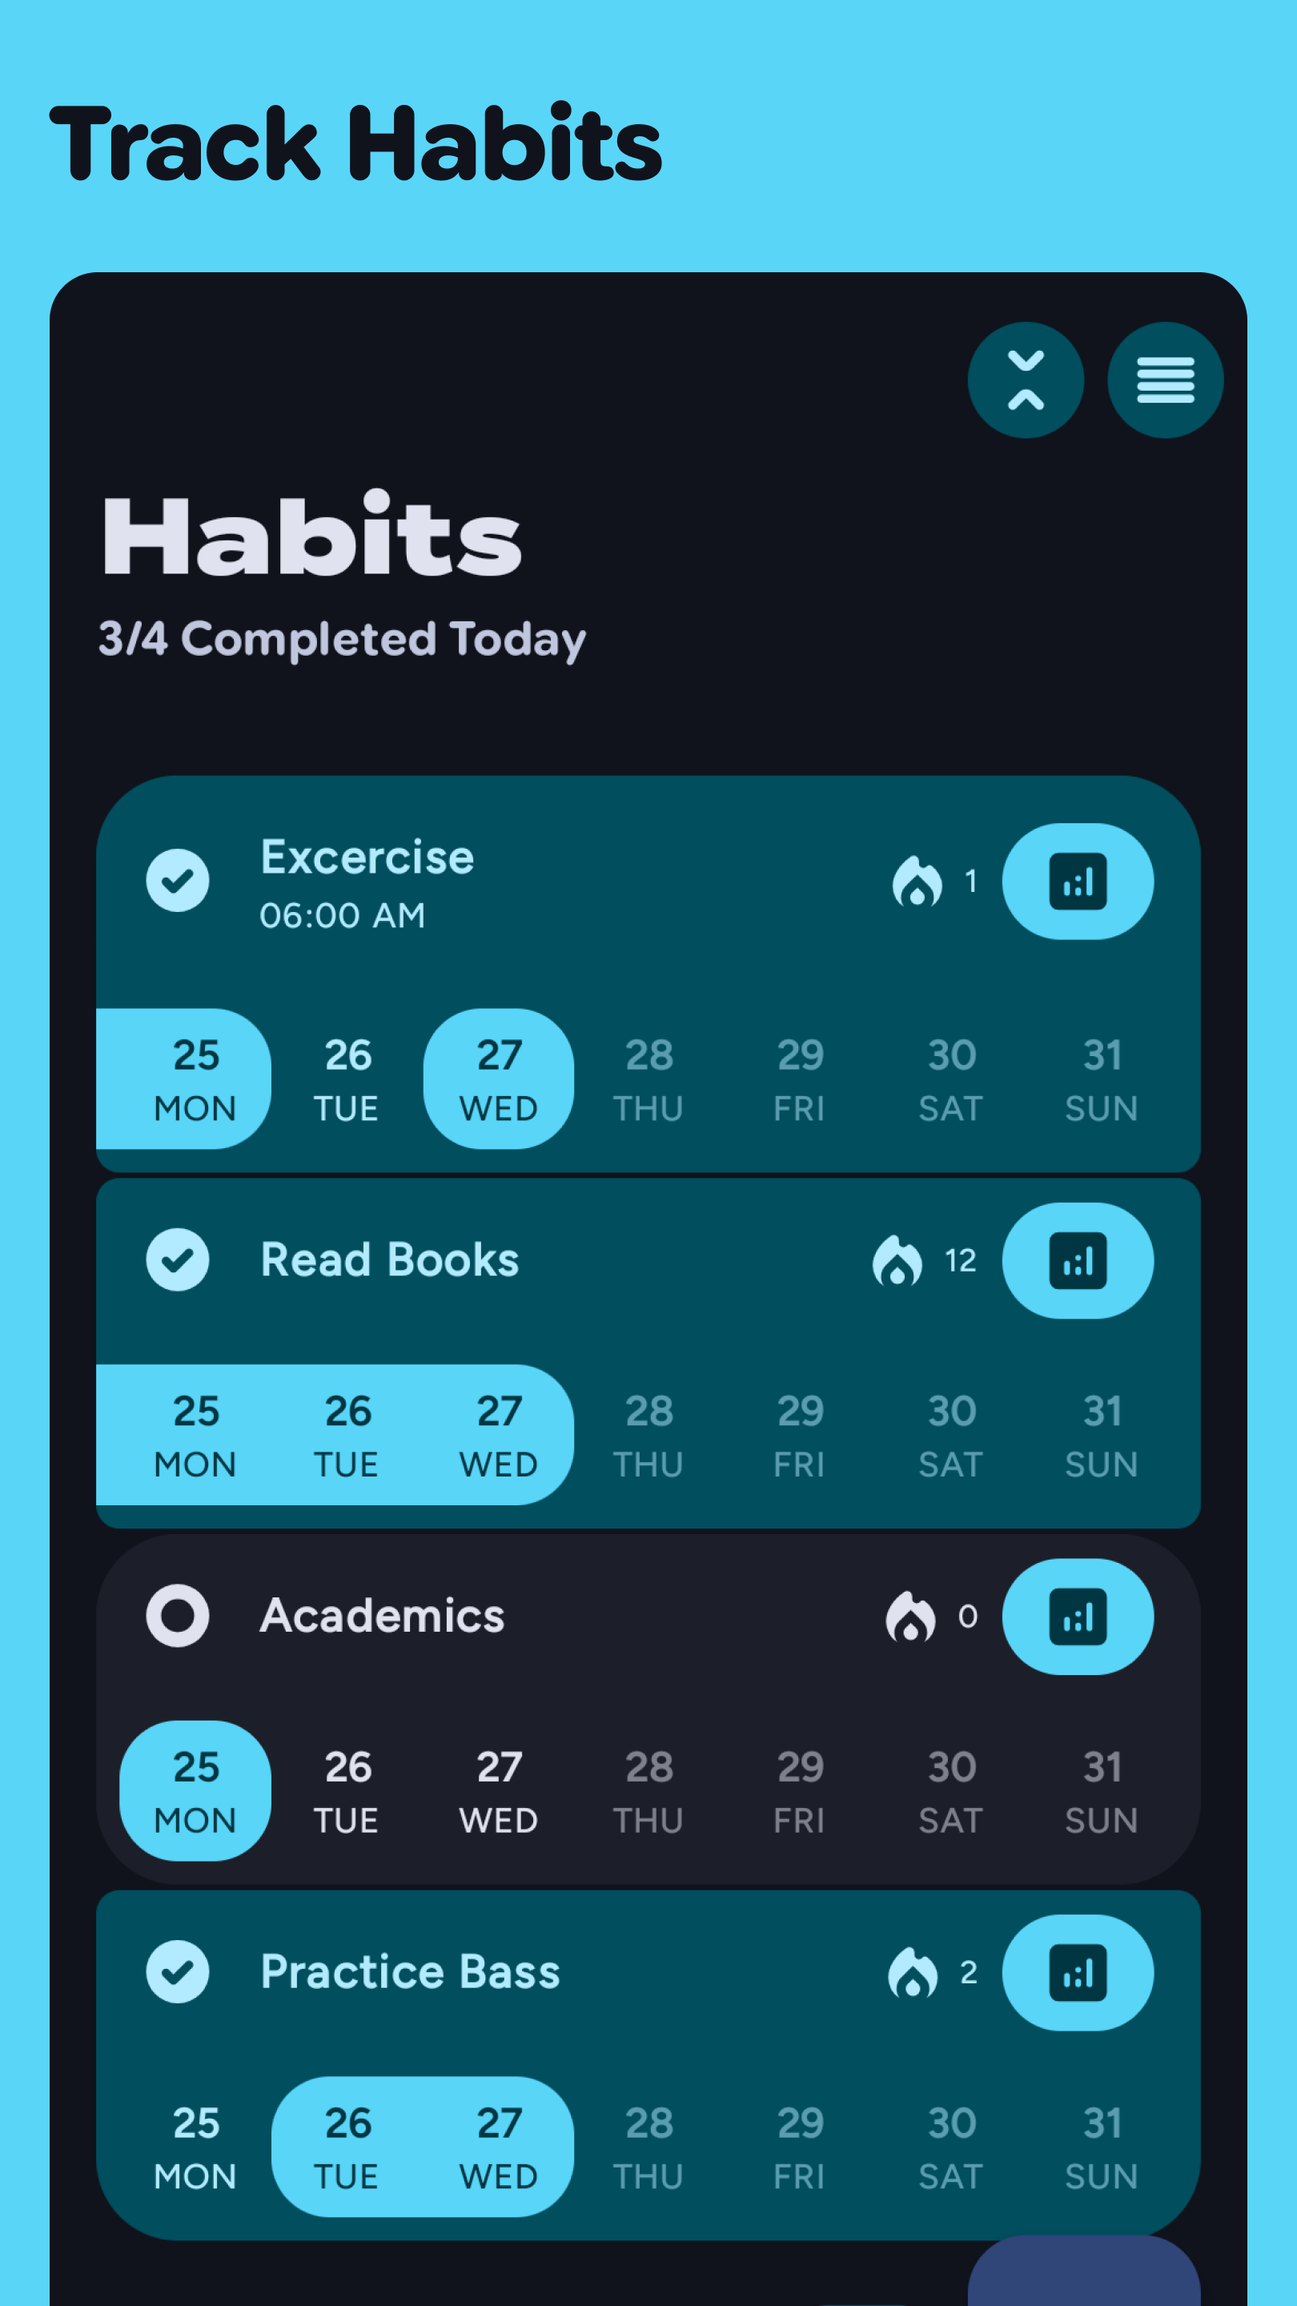
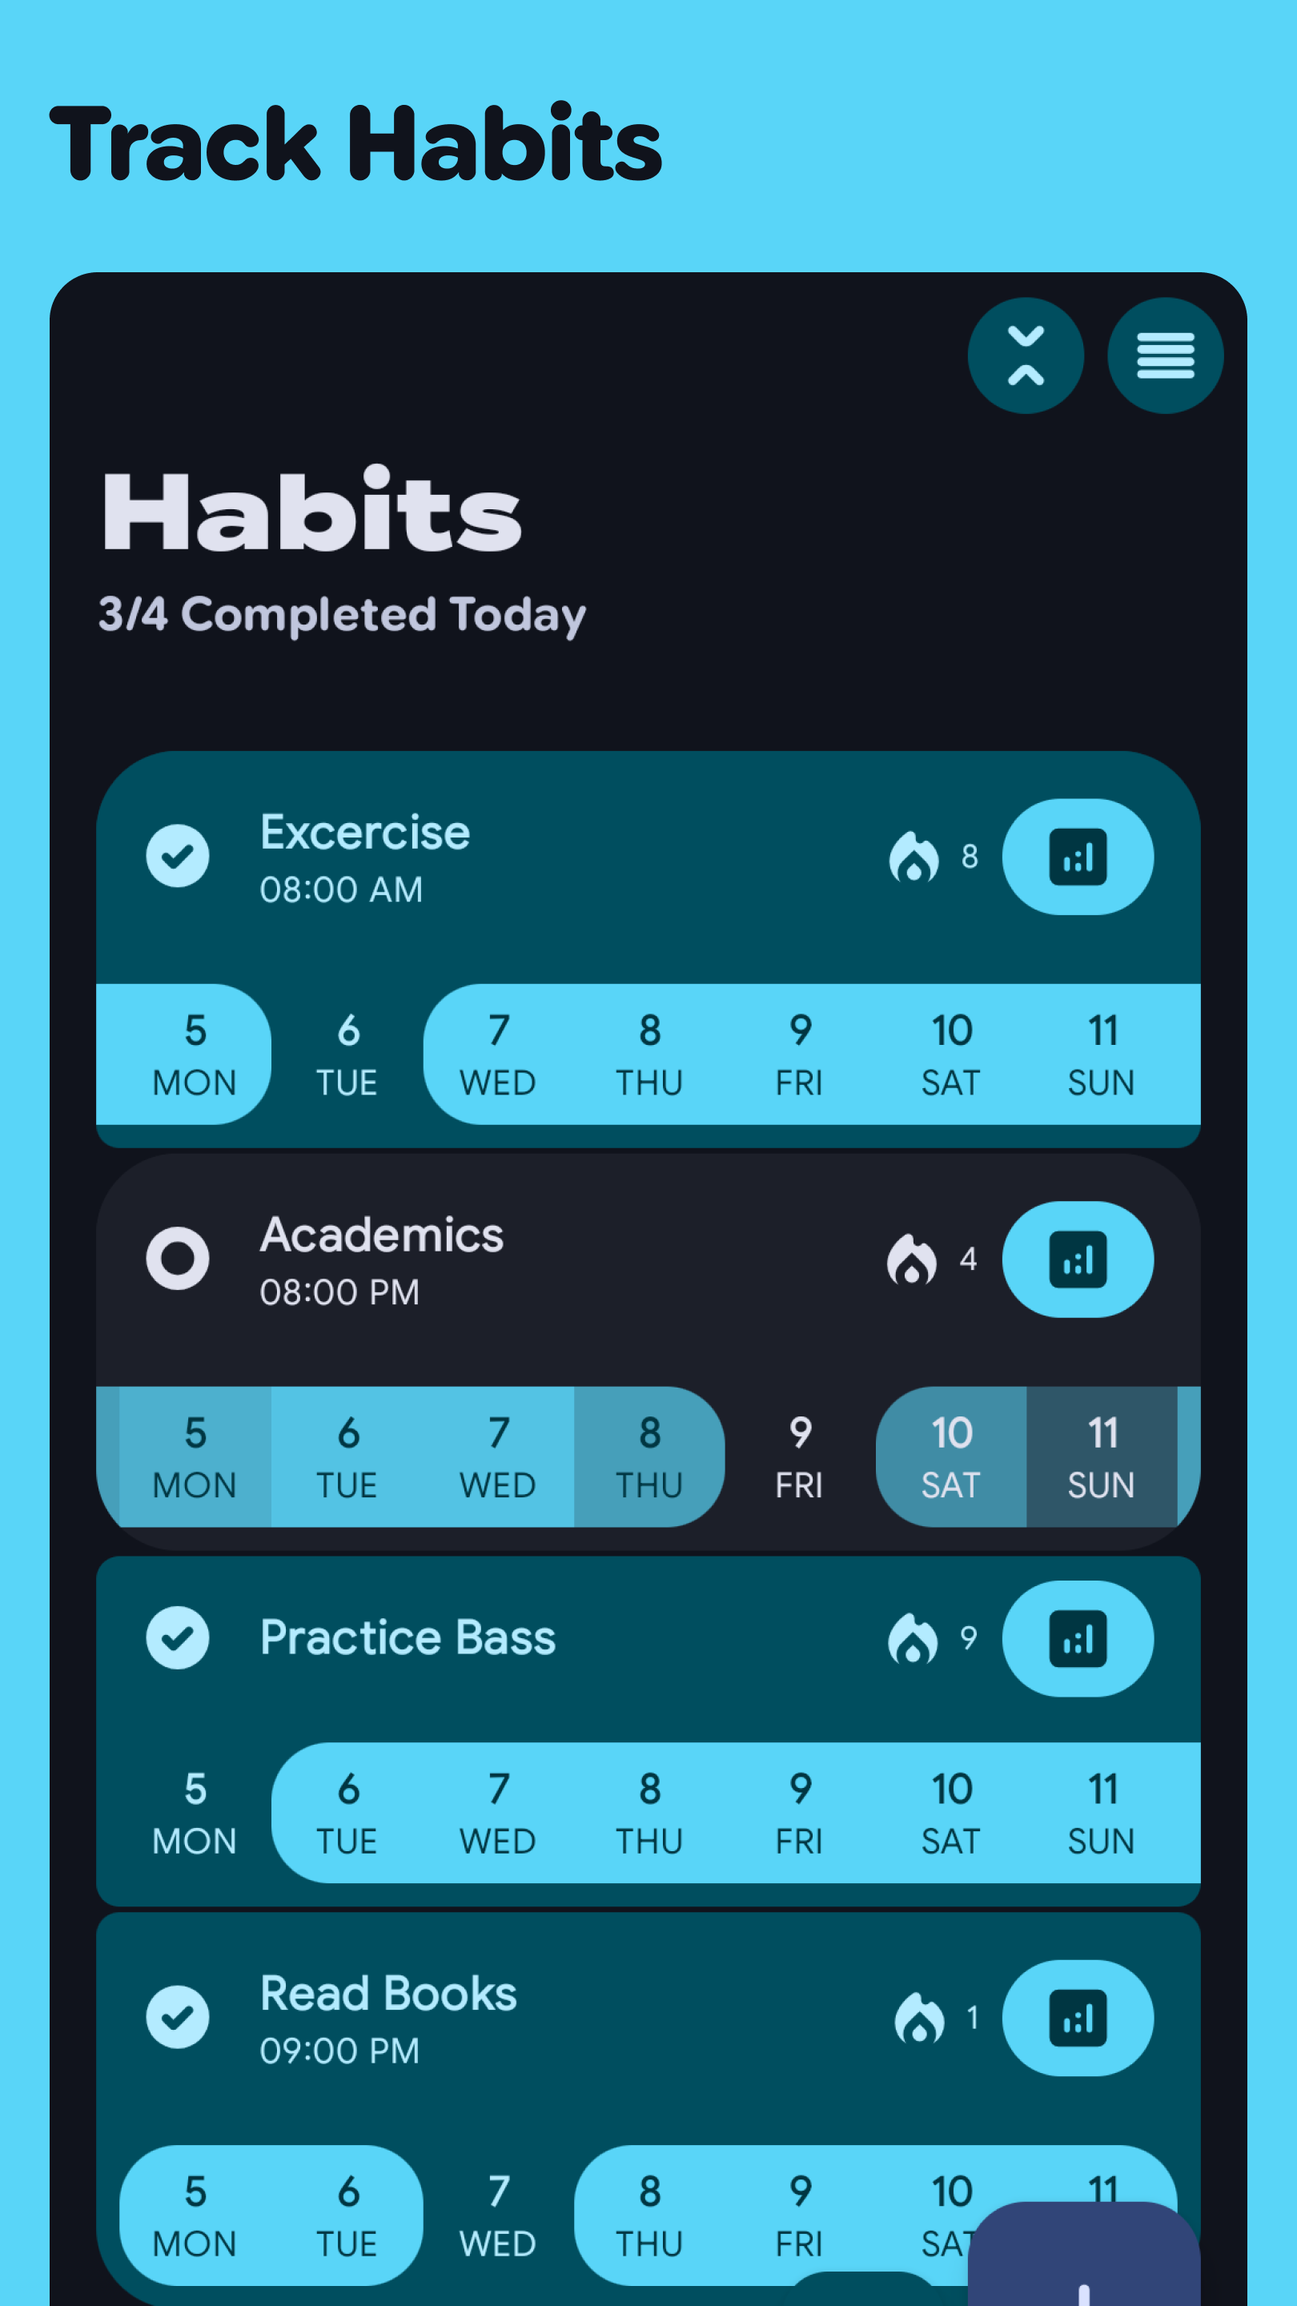
:memo: chore: updated screenshots, bumped version added changelog
* Fixed tablet ui

diff --git a/shared/ui/src/commonMain/kotlin/com/shub39/grit/shared/ui/habit/ui/sections/CalendarHeatMap.kt b/shared/ui/src/commonMain/kotlin/com/shub39/grit/shared/ui/habit/ui/sections/CalendarHeatMap.kt
@@ -32,6 +32,7 @@ import androidx.compose.foundation.layout.fillMaxSize
 import androidx.compose.foundation.layout.fillMaxWidth
 import androidx.compose.foundation.layout.height
 import androidx.compose.foundation.layout.padding
+import androidx.compose.foundation.layout.widthIn
 import androidx.compose.foundation.rememberScrollState
 import androidx.compose.foundation.shape.RoundedCornerShape
 import androidx.compose.foundation.verticalScroll
@@ -72,6 +73,7 @@ import com.shub39.grit.shared.ui.LocalWindowSizeClass
 import com.shub39.grit.shared.ui.WindowSize.Companion.isExpanded
 import com.shub39.grit.shared.ui.components.GritBottomSheet
 import com.shub39.grit.shared.ui.components.LocalDateSaver
+import com.shub39.grit.shared.ui.components.PageFill
 import com.shub39.grit.shared.ui.components.endItemShape
 import com.shub39.grit.shared.ui.components.leadingItemShape
 import com.shub39.grit.shared.ui.habit.HabitState
@@ -94,143 +96,152 @@ fun CalendarHeatMap(
     onNavigateBack: () -> Unit,
     onChangeSelectedDay: (LocalDate?) -> Unit,
     modifier: Modifier = Modifier,
-) {
-    var calendarType by rememberSaveable { mutableStateOf(CalendarType.MONTH) }
-    val windowSizeClass = LocalWindowSizeClass.current
-    val today = LocalDate.now()
-    val totalHabits = state.habitsWithAnalytics.size
-    var selectedDay: LocalDate? by
-        rememberSaveable(stateSaver = LocalDateSaver) { mutableStateOf(null) }
+) =
+    PageFill(modifier = modifier) {
+        var calendarType by rememberSaveable { mutableStateOf(CalendarType.MONTH) }
+        val windowSizeClass = LocalWindowSizeClass.current
+        val today = LocalDate.now()
+        val totalHabits = state.habitsWithAnalytics.size
+        var selectedDay: LocalDate? by
+            rememberSaveable(stateSaver = LocalDateSaver) { mutableStateOf(null) }
 
-    LaunchedEffect(selectedDay) { onChangeSelectedDay(selectedDay) }
+        LaunchedEffect(selectedDay) { onChangeSelectedDay(selectedDay) }
 
-    if (state.overallAnalytics.completedHabits != null) {
-        GritBottomSheet(onDismissRequest = { selectedDay = null }, padding = 16.dp) {
-            state.overallAnalytics.completedHabits?.let { (date, habits) ->
-                Text(
-                    text = date.toFormattedString(),
-                    fontFamily = flexFontRounded(),
-                    color = colorScheme.onSurface,
-                    modifier = Modifier.fillMaxWidth().padding(horizontal = 16.dp),
-                )
+        if (state.overallAnalytics.completedHabits != null) {
+            GritBottomSheet(onDismissRequest = { selectedDay = null }, padding = 16.dp) {
+                state.overallAnalytics.completedHabits?.let { (date, habits) ->
+                    Text(
+                        text = date.toFormattedString(),
+                        fontFamily = flexFontRounded(),
+                        color = colorScheme.onSurface,
+                        modifier = Modifier.fillMaxWidth().padding(horizontal = 16.dp),
+                    )
 
-                Column(modifier = Modifier.verticalScroll(rememberScrollState())) {
-                    if (habits.isNotEmpty()) {
-                        Spacer(modifier = Modifier.height(4.dp))
-                        habits.toList().forEachIndexed { index, (habit, value) ->
-                            val shape =
-                                when {
-                                    habits.size == 1 -> RoundedCornerShape(12.dp)
-                                    index == 0 -> leadingItemShape(topRadius = 12)
-                                    index == habits.size - 1 -> endItemShape(bottomRadius = 12)
-                                    else -> RoundedCornerShape(4.dp)
-                                }
+                    Column(modifier = Modifier.verticalScroll(rememberScrollState())) {
+                        if (habits.isNotEmpty()) {
+                            Spacer(modifier = Modifier.height(4.dp))
+                            habits.toList().forEachIndexed { index, (habit, value) ->
+                                val shape =
+                                    when {
+                                        habits.size == 1 -> RoundedCornerShape(12.dp)
+                                        index == 0 -> leadingItemShape(topRadius = 12)
+                                        index == habits.size - 1 -> endItemShape(bottomRadius = 12)
+                                        else -> RoundedCornerShape(4.dp)
+                                    }
 
-                            ListItem(
-                                colors =
-                                    ListItemDefaults.colors(
-                                        containerColor = Color.Transparent,
-                                        contentColor = colorScheme.onSecondaryContainer,
-                                    ),
-                                modifier =
-                                    Modifier.padding(vertical = 1.dp)
-                                        .background(colorScheme.secondaryContainer, shape = shape),
-                                headlineContent = { Text(habit.title) },
-                                trailingContent = {
-                                    if (habit.isMeasurable) {
-                                        value?.let {
-                                            Card(
-                                                colors =
-                                                    CardDefaults.cardColors(
-                                                        containerColor =
-                                                            colorScheme.onPrimaryContainer,
-                                                        contentColor = colorScheme.primaryContainer,
+                                ListItem(
+                                    colors =
+                                        ListItemDefaults.colors(
+                                            containerColor = Color.Transparent,
+                                            contentColor = colorScheme.onSecondaryContainer,
+                                        ),
+                                    modifier =
+                                        Modifier.padding(vertical = 1.dp)
+                                            .background(
+                                                colorScheme.secondaryContainer,
+                                                shape = shape,
+                                            ),
+                                    headlineContent = { Text(habit.title) },
+                                    trailingContent = {
+                                        if (habit.isMeasurable) {
+                                            value?.let {
+                                                Card(
+                                                    colors =
+                                                        CardDefaults.cardColors(
+                                                            containerColor =
+                                                                colorScheme.onPrimaryContainer,
+                                                            contentColor =
+                                                                colorScheme.primaryContainer,
+                                                        )
+                                                ) {
+                                                    Text(
+                                                        text =
+                                                            "${value.roundToInt()}/${habit.targetValue.roundToInt()}",
+                                                        modifier = Modifier.padding(8.dp),
+                                                        fontFamily = flexFontRounded(),
                                                     )
-                                            ) {
-                                                Text(
-                                                    text =
-                                                        "${value.roundToInt()}/${habit.targetValue.roundToInt()}",
-                                                    modifier = Modifier.padding(8.dp),
-                                                    fontFamily = flexFontRounded(),
-                                                )
+                                                }
                                             }
                                         }
-                                    }
-                                },
-                            )
+                                    },
+                                )
+                            }
                         }
                     }
                 }
             }
         }
-    }
 
-    Column(modifier = modifier.fillMaxSize()) {
-        TopAppBar(
-            title = {
-                Text(text = stringResource(Res.string.calendar), fontFamily = flexFontEmphasis())
-            },
-            navigationIcon = {
-                FilledTonalIconButton(onClick = onNavigateBack) {
-                    Icon(
-                        imageVector = vectorResource(Res.drawable.nav_arrow_back),
-                        contentDescription = "Navigate Back",
+        Column(modifier = Modifier.fillMaxSize().widthIn(max = 700.dp)) {
+            TopAppBar(
+                title = {
+                    Text(
+                        text = stringResource(Res.string.calendar),
+                        fontFamily = flexFontEmphasis(),
                     )
-                }
-            },
-            colors =
-                TopAppBarDefaults.topAppBarColors(
-                    scrolledContainerColor = Color.Transparent,
-                    containerColor = Color.Transparent,
-                ),
-            windowInsets =
-                if (windowSizeClass.isExpanded()) {
-                    WindowInsets(0)
-                } else {
-                    TopAppBarDefaults.windowInsets
                 },
-        )
+                navigationIcon = {
+                    FilledTonalIconButton(onClick = onNavigateBack) {
+                        Icon(
+                            imageVector = vectorResource(Res.drawable.nav_arrow_back),
+                            contentDescription = "Navigate Back",
+                        )
+                    }
+                },
+                colors =
+                    TopAppBarDefaults.topAppBarColors(
+                        scrolledContainerColor = Color.Transparent,
+                        containerColor = Color.Transparent,
+                    ),
+                windowInsets =
+                    if (windowSizeClass.isExpanded()) {
+                        WindowInsets(0)
+                    } else {
+                        TopAppBarDefaults.windowInsets
+                    },
+            )
 
-        Row(
-            modifier = Modifier.padding(horizontal = 16.dp),
-            horizontalArrangement = Arrangement.spacedBy(ButtonGroupDefaults.ConnectedSpaceBetween),
-        ) {
-            CalendarType.entries.forEach { entry ->
-                ToggleButton(
-                    checked = entry == calendarType,
-                    onCheckedChange = { calendarType = entry },
-                    modifier = Modifier.weight(1f),
-                ) {
-                    Text(text = stringResource(entry.toStringRes()))
+            Row(
+                modifier = Modifier.padding(horizontal = 16.dp),
+                horizontalArrangement =
+                    Arrangement.spacedBy(ButtonGroupDefaults.ConnectedSpaceBetween),
+            ) {
+                CalendarType.entries.forEach { entry ->
+                    ToggleButton(
+                        checked = entry == calendarType,
+                        onCheckedChange = { calendarType = entry },
+                        modifier = Modifier.weight(1f),
+                    ) {
+                        Text(text = stringResource(entry.toStringRes()))
+                    }
                 }
             }
-        }
 
-        AnimatedContent(targetState = calendarType, modifier = Modifier.fillMaxSize()) { type ->
-            when (type) {
-                YEAR -> {
-                    YearlyMap(
-                        today = today,
-                        state = state,
-                        totalHabits = totalHabits,
-                        selectedDay = selectedDay,
-                        onChangeSelectedDay = { selectedDay = it },
-                    )
-                }
+            AnimatedContent(targetState = calendarType, modifier = Modifier.fillMaxSize()) { type ->
+                when (type) {
+                    YEAR -> {
+                        YearlyMap(
+                            today = today,
+                            state = state,
+                            totalHabits = totalHabits,
+                            selectedDay = selectedDay,
+                            onChangeSelectedDay = { selectedDay = it },
+                        )
+                    }
 
-                MONTH -> {
-                    MonthlyMap(
-                        state = state,
-                        today = today,
-                        totalHabits = totalHabits,
-                        selectedDay = selectedDay,
-                        onChangeSelectedDay = { selectedDay = it },
-                    )
+                    MONTH -> {
+                        MonthlyMap(
+                            state = state,
+                            today = today,
+                            totalHabits = totalHabits,
+                            selectedDay = selectedDay,
+                            onChangeSelectedDay = { selectedDay = it },
+                        )
+                    }
                 }
             }
         }
     }
-}
 
 @Composable
 private fun YearlyMap(

diff --git a/shared/ui/src/commonMain/kotlin/com/shub39/grit/shared/ui/task/ui/section/TaskList.kt b/shared/ui/src/commonMain/kotlin/com/shub39/grit/shared/ui/task/ui/section/TaskList.kt
@@ -187,11 +187,11 @@ fun TaskList(
                     showCategoryAddSheet = true
                 },
                 onEditCategoriesClick = onEditCategories,
-                isExpanded = windowSizeClass.isExpanded(),
+                isExpanded = !windowSizeClass.isCompact(),
                 onReorderModeChange = { editState = it },
             )
 
-            if (!windowSizeClass.isExpanded()) {
+            if (windowSizeClass.isCompact()) {
                 CompactTasksView(
                     state = state,
                     isReorderMode = editState,

diff --git a/README.md b/README.md
@@ -5,10 +5,16 @@
 
 # Screenshots
 
+## Phone
 | ![Image 1](fastlane/metadata/android/en-US/images/phoneScreenshots/1.png) | ![Image 2](fastlane/metadata/android/en-US/images/phoneScreenshots/2.png) |
 |:-------------------------------------------------------------------------:|:-------------------------------------------------------------------------:|
 | ![Image 3](fastlane/metadata/android/en-US/images/phoneScreenshots/3.png) | ![Image 4](fastlane/metadata/android/en-US/images/phoneScreenshots/4.png) |
 | ![Image 5](fastlane/metadata/android/en-US/images/phoneScreenshots/5.png) | ![Image 6](fastlane/metadata/android/en-US/images/phoneScreenshots/6.png) |
+
+## Tablets and Desktop
+| ![Image 1](fastlane/metadata/android/en-US/images/phoneScreenshots/7.png) | ![Image 2](fastlane/metadata/android/en-US/images/phoneScreenshots/8.png)  |
+|:-------------------------------------------------------------------------:|:--------------------------------------------------------------------------:|
+| ![Image 3](fastlane/metadata/android/en-US/images/phoneScreenshots/9.png) | ![Image 4](fastlane/metadata/android/en-US/images/phoneScreenshots/10.png) |
 
 # Features
 

diff --git a/CHANGELOG.md b/CHANGELOG.md
@@ -1,5 +1,10 @@
 # Changelog
 
+## 6.2.1
+- Fixed Light mode Splashscreen
+- Miscellaneous UI fixes
+- Updated Translations
+
 ## 6.2.0
 - Added Measurable Habits
 - Added new Target Analytic for Measurable Habits
